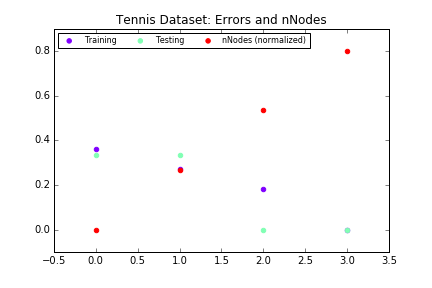
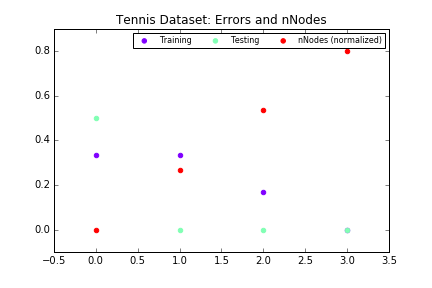
Tennis results

diff --git a/id3.py b/id3.py
@@ -11,8 +11,8 @@ from node import Tree
 test_ratio = 0.2
 
 def main():
-    #tennis()
-    art()
+    tennis()
+    #art()
 
 def tennis():
     training, testing = JSON_to_datasets('play_tennis.json')
@@ -65,6 +65,8 @@ def solve_without_pruning(training, testing, label, folder):
         nNodes.append(res.nNodes)
 
         ret_code = tree.expand_tree()
+
+    tree.display(folder + '\\paths.txt')
 
     nNodes_normalized = normalize(np.array(nNodes))
     ys.append(nNodes_normalized)
